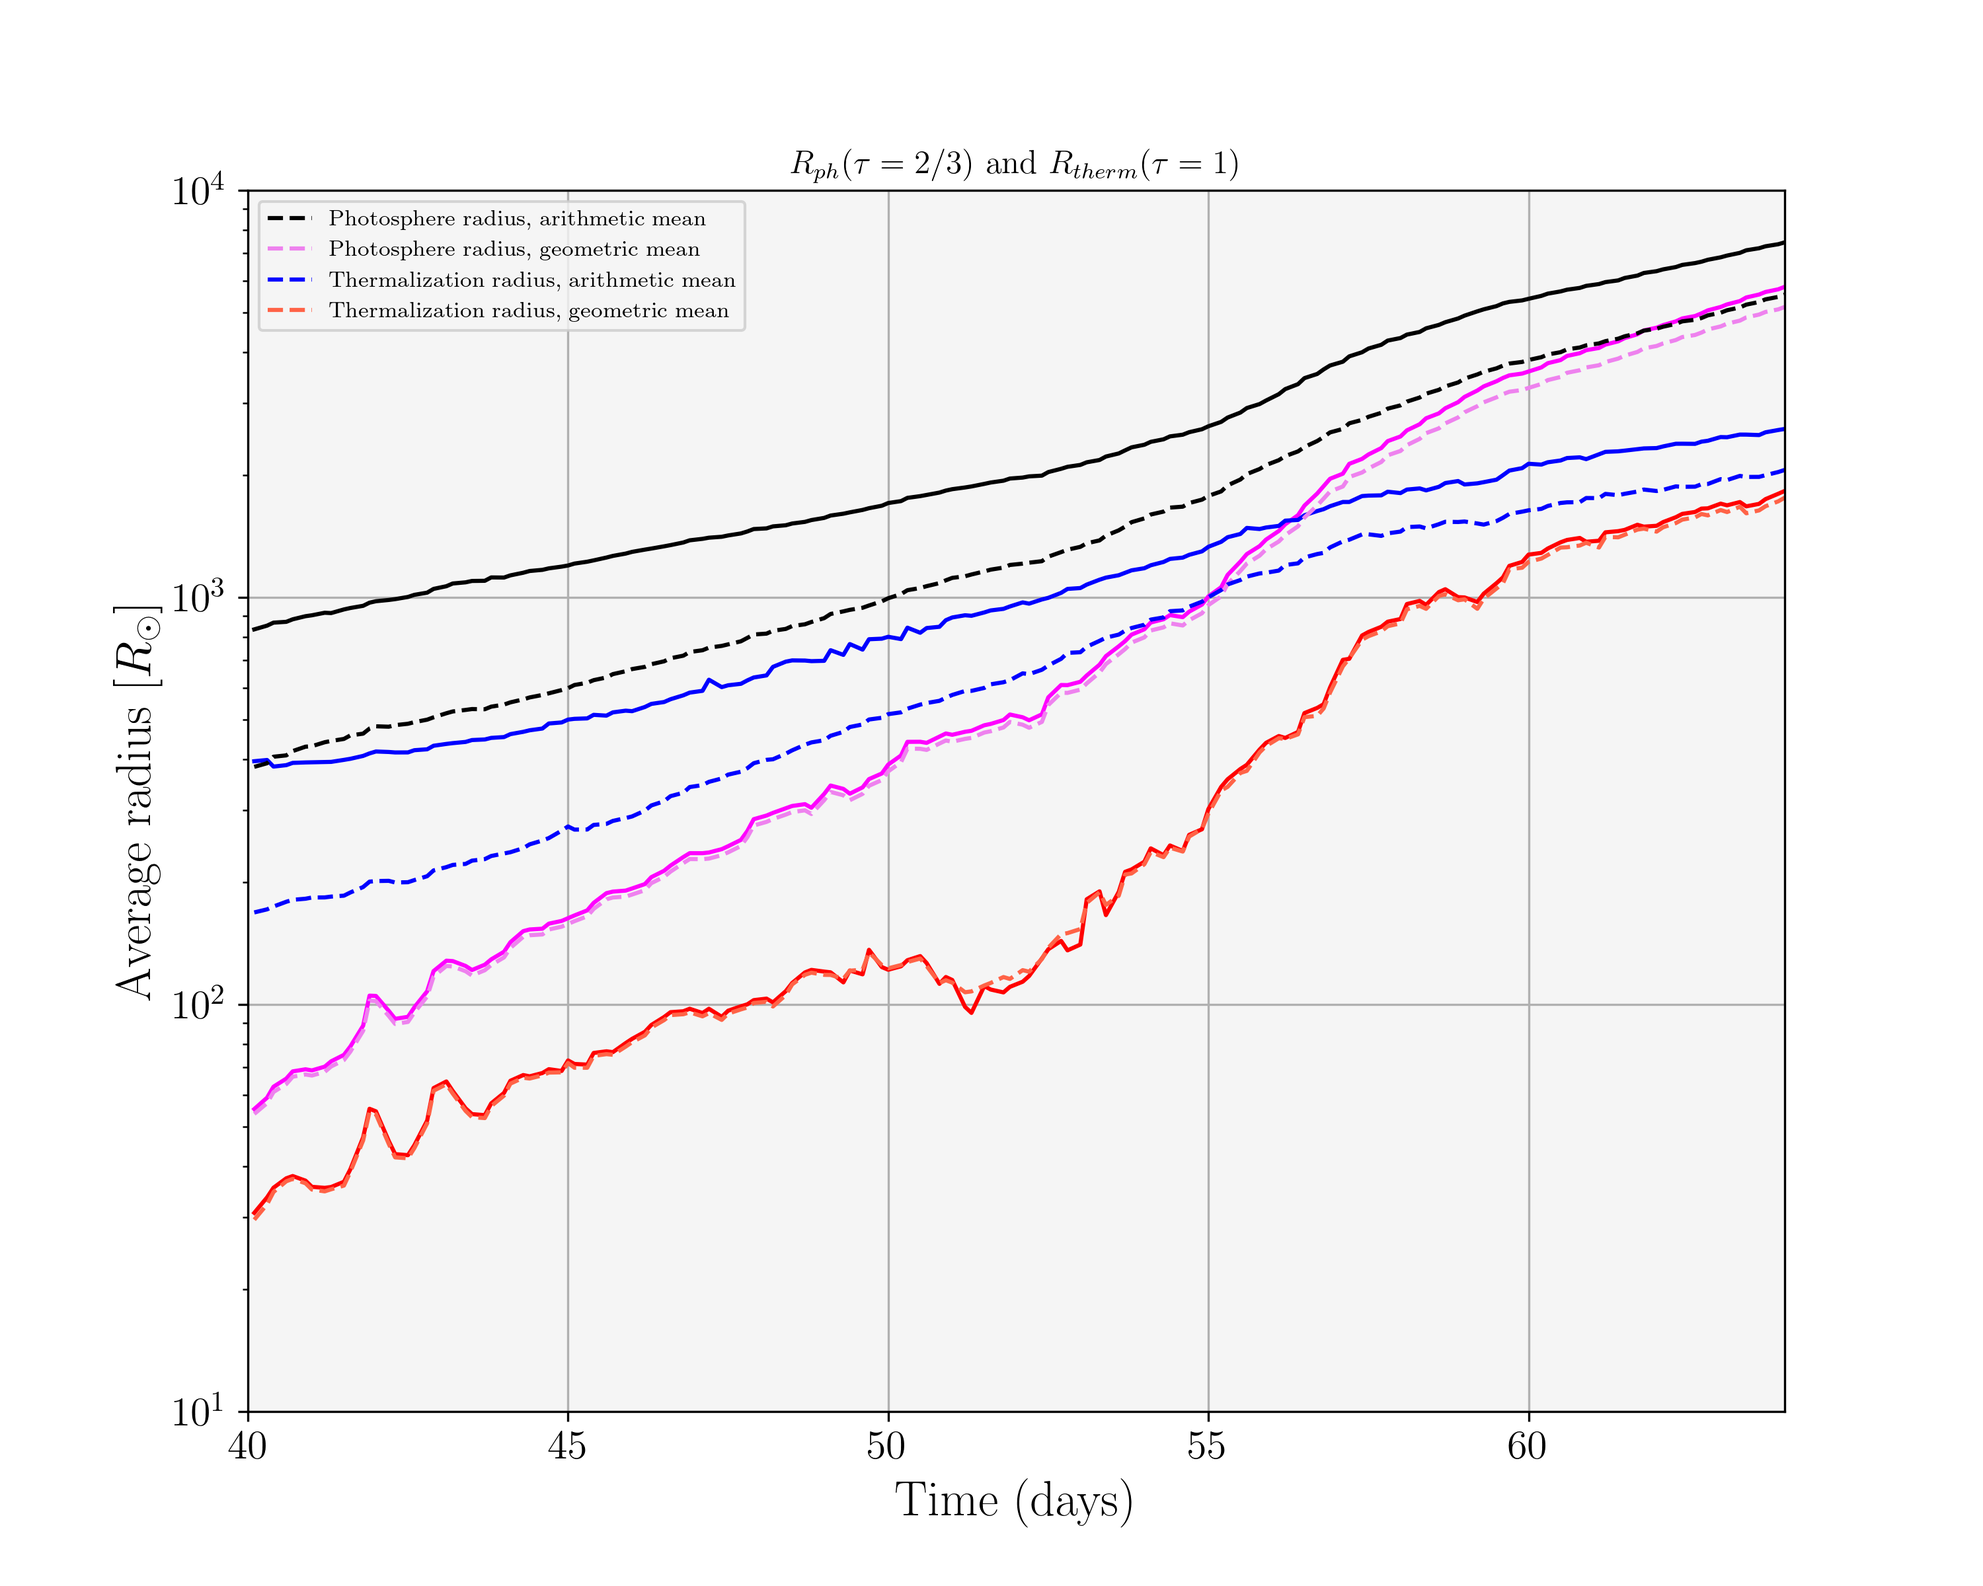
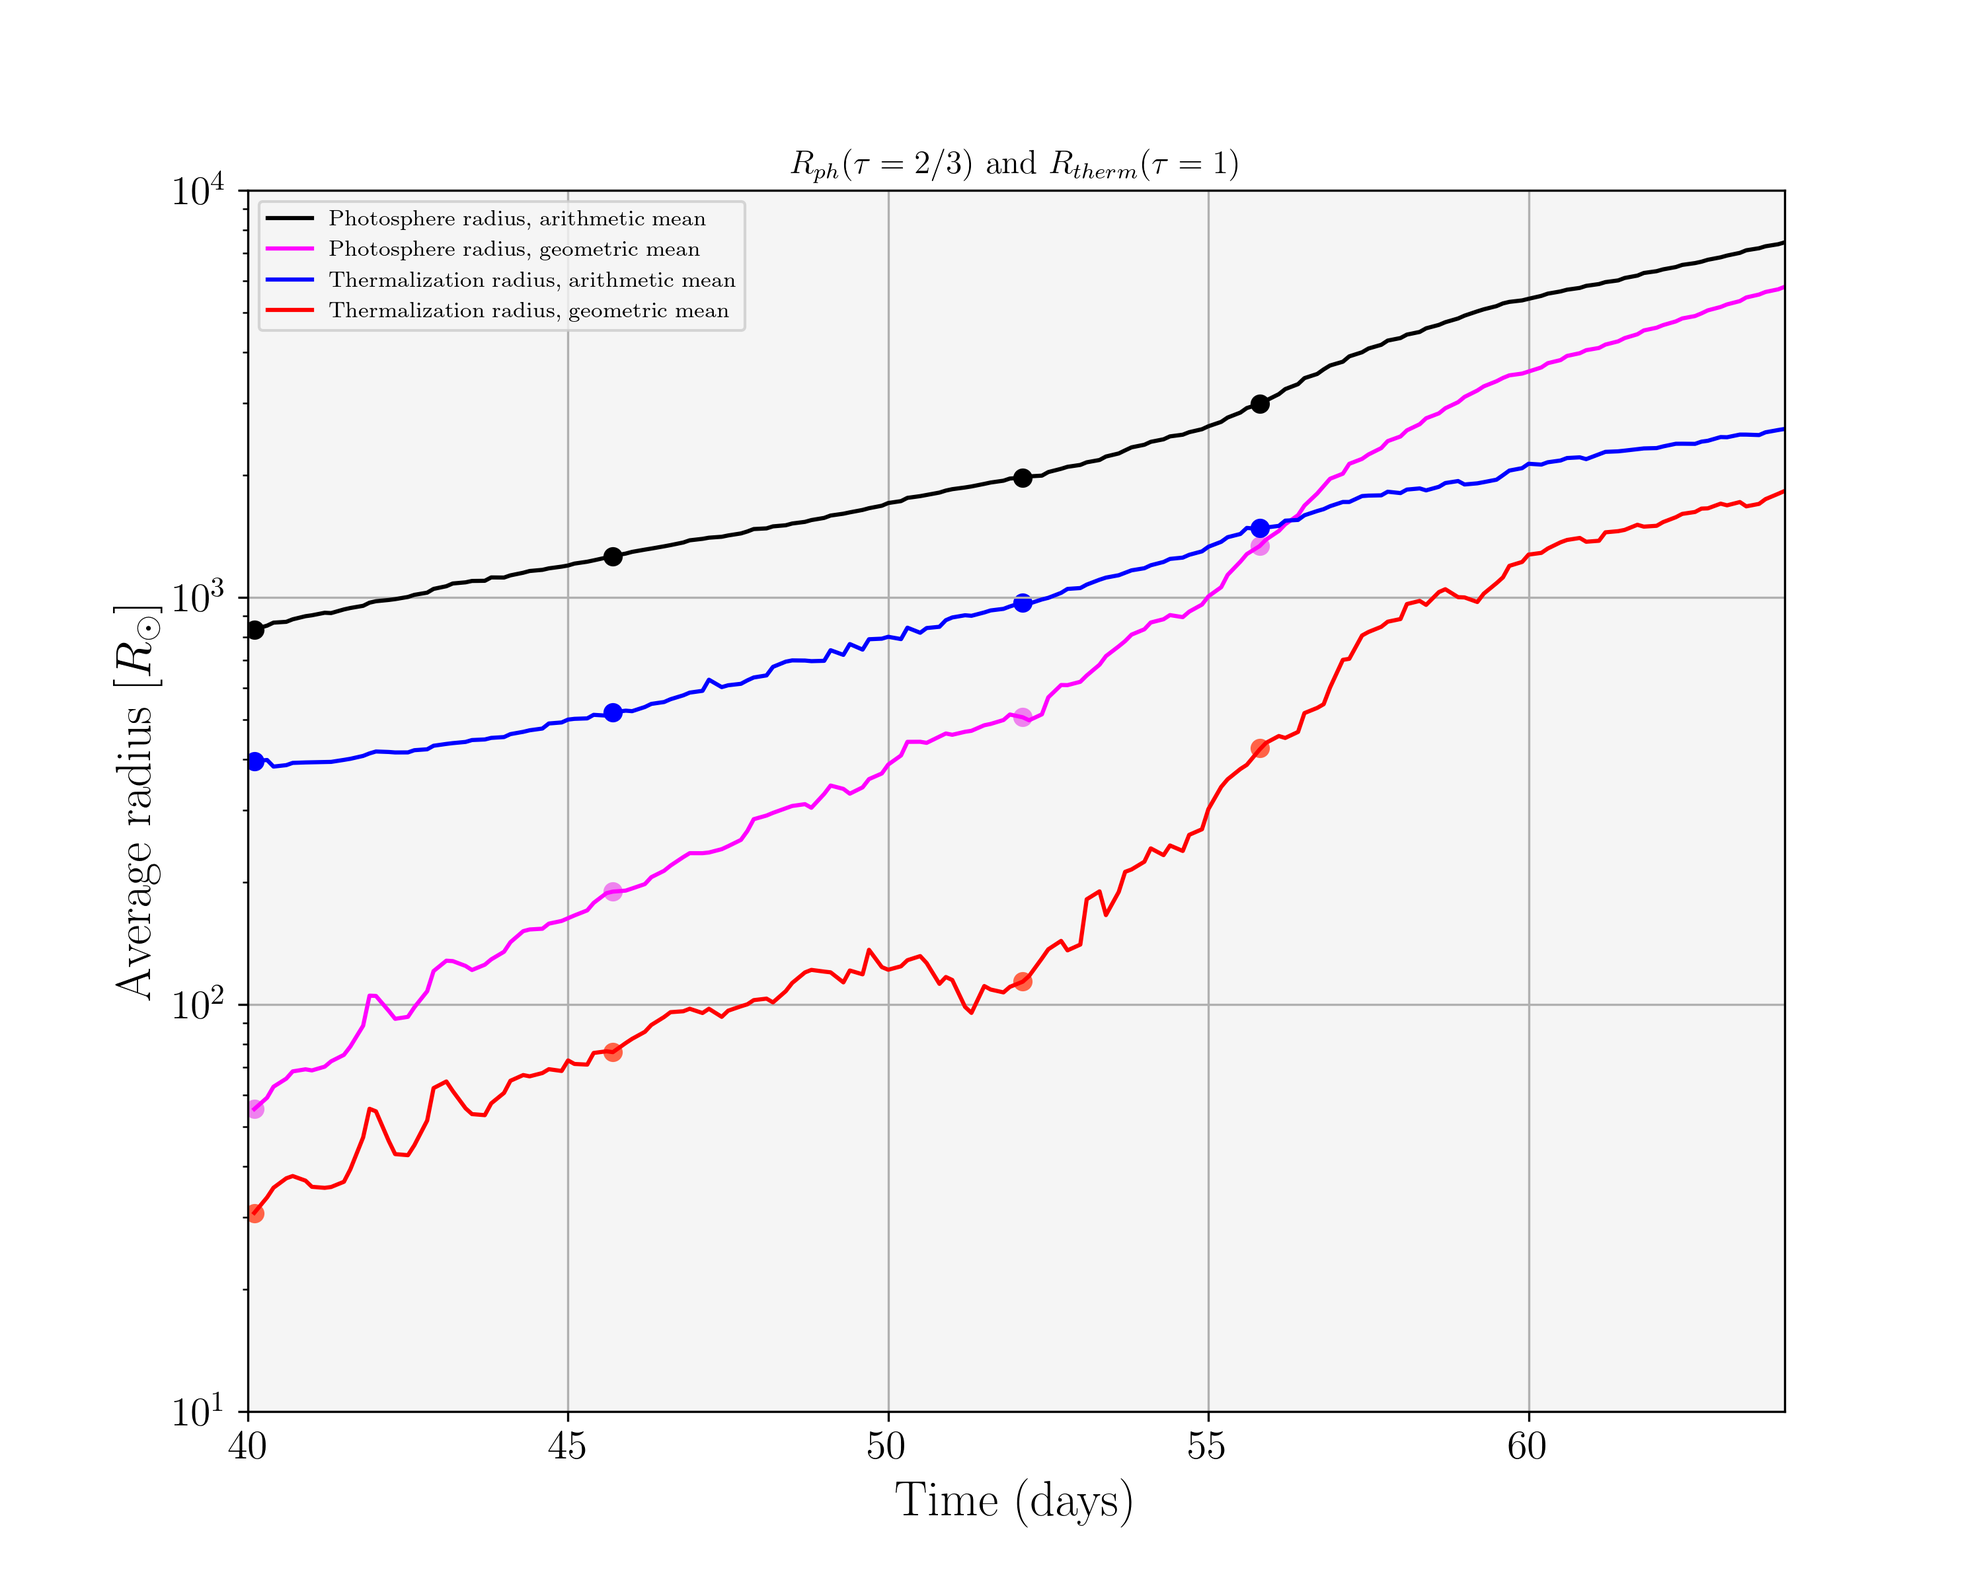
other stuff with box

diff --git a/src/Luminosity/spectra_cloudy_coolingforest.py b/src/Luminosity/spectra_cloudy_coolingforest.py
@@ -125,7 +125,7 @@ def spectrum(branch_T, branch_den, branch_en, branch_ie, branch_cumulative_taus,
             print('here')
 
             def function_forT(x):
-                to_solve = cv_temp * x + alpha * x**4 - total_E # Elad has *rho
+                to_solve = cv_temp * rho * x + alpha * x**4 - total_E # Elad has *rho
                 return to_solve
             
             new_T = fsolve(function_forT, Tr)
@@ -145,16 +145,23 @@ def spectrum(branch_T, branch_den, branch_en, branch_ie, branch_cumulative_taus,
 
     return lum_n
 
-def dot_prod(xyz_selected, thetas, phis):
-    dot_product = np.zeros(len(thetas))
-    for iobs in range(len(thetas)):
-        xyz = find_sph_coord(1,thetas[iobs], phis[iobs])
-        dot_product[iobs] = np.dot(xyz_selected, xyz)
-        # set the negative dot product to 0
-        if dot_product[iobs] < 0:
-            dot_product[iobs] = 0
+# def dot_prod(xyz_selected, thetas, phis):
+#     dot_product = np.zeros(len(thetas))
+#     for iobs in range(len(thetas)):
+#         xyz = find_sph_coord(1,thetas[iobs], phis[iobs])
+#         dot_product[iobs] = np.dot(xyz_selected, xyz)
+#         # set the negative dot product to 0
+#         if dot_product[iobs] < 0:
+#             dot_product[iobs] = 0
 
-    dot_product *= 4/192 # normalisation from Elad
+#     dot_product *= 4/192 # normalisation from Elad
+#     return dot_product
+
+def dot_prod(xyz_grid):
+    dot_product = np.dot(xyz_grid, np.transpose(xyz_grid))
+    dot_product[dot_product < 0] = 0
+    dot_product = dot_product * 4 / 192
+
     return dot_product
 
 
@@ -200,7 +207,7 @@ if __name__ == "__main__":
     fld_data = np.loadtxt('data/red/reddata_m'+ str(m) + check +'.txt')
     luminosity_fld_fix = fld_data[1]
     
-    for idx_sn in range(1,2): #len(snapshots)-1, len(snapshots)): # so you take snap 881 1008: (len(snapshots)-1, len(snapshots))
+    for idx_sn in range(1,2): 
         snap = snapshots[idx_sn]
         bol_fld = luminosity_fld_fix[idx_sn]
         print(f'Snap {snap}')
@@ -219,12 +226,14 @@ if __name__ == "__main__":
         phis = np.zeros(192) 
         observers = []
         stops = np.zeros(192) 
+        xyz_grid = []
         for iobs in range(0,192):
             theta, phi = hp.pix2ang(NSIDE, iobs) # theta in [0,pi], phi in [0,2pi]
             thetas[iobs] = theta
             phis[iobs] = phi
             observers.append( (theta, phi) )
             xyz = find_sph_coord(1, theta, phi)
+            xyz_grid.append(xyz)
 
             mu_x = xyz[0]
             mu_y = xyz[1]
@@ -266,8 +275,8 @@ if __name__ == "__main__":
 
             volume = np.zeros(len(radius)-1)
             for i in range(len(volume)): 
-                dr = radius[i+1] - radius[i]  #2*(radius[2]-radius[1]) / (radius[2] + radius[1])  
-                volume[i] =  4 * np.pi * radius[i]**2 * dr / 192 #4 * np.pi * radius[i]**3 * dr #/ 192  
+                dr = 2*(radius[2]-radius[1]) / (radius[2] + radius[1]) #radius[i+1] - radius[i]  
+                volume[i] =  4 * np.pi * radius[i]**3 * dr #4 * np.pi * radius[i]**2 * dr / 192  
 
             radius = np.delete(radius, -1)
 
@@ -279,7 +288,10 @@ if __name__ == "__main__":
 
             lum_n.append(lum_n_ray)
 
-        print('hi')
+        dot_product = dot_prod(xyz_grid) #dot_prod(xyz_selected, thetas, phis)
+
+        lum_n_selected = np.dot(dot_product, lum_n)
+
         # Select the observer for single spectrum and compute the dot product
         for idx in range(len(wanted_thetas)):
             wanted_theta = wanted_thetas[idx]
@@ -287,16 +299,16 @@ if __name__ == "__main__":
             wanted_index = select_observer(wanted_theta, wanted_phi, thetas, phis)
             # print('index ',wanted_index)
 
-            xyz_selected = find_sph_coord(1, thetas[wanted_index], phis[wanted_index])
-            dot_product = dot_prod(xyz_selected, thetas, phis)
+            # xyz_selected = find_sph_coord(1, thetas[wanted_index], phis[wanted_index])
+            # dot_product = dot_prod(xyz_selected, thetas, phis)
 
-            lum_n_selected = np.zeros(len(x_arr))
-            for j in range(len(lum_n)):
-                if dot_product[j] == 0:
-                    continue
-                for i in range(len(x_arr)):
-                    lum_n_single = lum_n[j][i] * dot_product[j]
-                    lum_n_selected[i] += lum_n_single
+            #lum_n_selected = np.zeros(len(x_arr))
+            # for j in range(len(lum_n)):
+            #     if dot_product[j] == 0:
+            #         continue
+            #     for i in range(len(x_arr)):
+            #         lum_n_single = lum_n[j][i] * dot_product[j]
+            #         lum_n_selected[i] += lum_n_single
 
             # Save data and plot
             if save:
@@ -306,6 +318,6 @@ if __name__ == "__main__":
                     pre_saving = 'data/blue/'
             with open(f'{pre_saving}TESTbox_cooling_nLn_single_m{m}_{snap}.txt', 'a') as fselect:
                 fselect.write(f'#snap {snap} L_tilde_n (theta, phi) = ({np.round(wanted_theta,4)},{np.round(wanted_phi,4)}) with num = {num} \n')
-                fselect.write(' '.join(map(str, lum_n_selected)) + '\n')
+                fselect.write(' '.join(map(str, lum_n_selected[wanted_index])) + '\n')
                 fselect.close()
                

diff --git a/testspectra.py b/testspectra.py
@@ -11,12 +11,18 @@ sys.path.append('/Users/paolamartire/tde_comparison')
 
 from src.Utilities.isalice import isalice
 alice, plot = isalice()
+Rsol_to_cm = 7e10 #6.957e10 # [cm]
 
 # Vanilla imports
 import numpy as np
 import matplotlib.pyplot as plt
 import h5py
 from scipy.stats import gmean
+from src.Luminosity.special_radii_tree_cloudy import calc_specialr
+from src.Luminosity.select_path import select_snap
+from src.Calculators.ray_forest import find_sph_coord, ray_maker
+import h5py
+import healpy as hp
 
 plt.rcParams['text.usetex'] = True
 plt.rcParams['figure.dpi'] = 300
@@ -24,25 +30,29 @@ plt.rcParams['figure.figsize'] = [5 , 4]
 pre = '/home/s3745597/data1/TDE/tde_comparison'
 
 m = 6
-snap = 881
-nL_tilde_n = np.loadtxt(f'data/blue/TESTnorm_nLn_single_m6_881.txt')
+#snap = 882
+check = 'fid'
+num = 1000
+NSIDE = 4
+
+# nL_tilde_n = np.loadtxt(f'data/blue/TESTnorm_nLn_single_m6_881.txt')
 # nL_tilde_n_new = np.zeros(len(nL_tilde_n[1]))
 # for i in range(len(nL_tilde_n[1])):
 #     for iobs in range(len(nL_tilde_n_new)):
 #         nL_tilde_n_new[i] += nL_tilde_n[iobs][i]
 # #nL_tilde_n_new /= 192
-x_array = np.loadtxt(f'data/blue/spectrafreq_m{m}.txt')
-n_array = np.power(10, x_array)
+# x_array = np.loadtxt(f'data/blue/spectrafreq_m{m}.txt')
+# n_array = np.power(10, x_array)
 
-Ltot = 0 
-for i in range(len(nL_tilde_n)):
-    xLx =  n_array * nL_tilde_n[i]
-    L = np.trapz(xLx, x_array) 
-    L *= np.log(10)
-    Ltot += L
-Ltot /= len(nL_tilde_n)
+# Ltot = 0 
+# for i in range(len(nL_tilde_n)):
+#     xLx =  n_array * nL_tilde_n[i]
+#     L = np.trapz(xLx, x_array) 
+#     L *= np.log(10)
+#     Ltot += L
+# Ltot /= len(nL_tilde_n)
 
-print(Ltot)
+# print(Ltot)
 
 # L = np.trapz(n_array * nL_tilde_n_new, x_array) 
 # L *= np.log(10)
@@ -62,4 +72,96 @@ print(Ltot)
 #     file.write(' '.join(map(str, gmean_rtherm)) + '\n')
 #     file.close()
 
+snapshots, days = select_snap(m, check)
+fix_photo_arit = np.zeros(len(snapshots))
+fix_photo_geom = np.zeros(len(snapshots))
+fix_thermr_arit = np.zeros(len(snapshots))
+fix_thermr_geom = np.zeros(len(snapshots))
 
+for index in range(1,2):#len(snapshots)): 
+    snap = snapshots[index]
+    print(snap)       
+    box = np.zeros(6)
+    filename = f"{m}/{snap}/snap_{snap}.h5"
+    
+    with h5py.File(filename, 'r') as fileh:
+        for i in range(len(box)):
+            box[i] = fileh['Box'][i]
+
+    with h5py.File(f'data/elad/data_{snap}.mat', 'r') as f:
+        Elad_photo = f['r_photo'][0]
+        Elad_therm = f['r_therm'][0]
+
+    thetas = np.zeros(192)
+    phis = np.zeros(192) 
+    observers = []
+    stops = np.zeros(192) 
+    for iobs in range(0,192):
+        theta, phi = hp.pix2ang(NSIDE, iobs) # theta in [0,pi], phi in [0,2pi]
+        thetas[iobs] = theta
+        phis[iobs] = phi
+        observers.append( (theta, phi) )
+        xyz = find_sph_coord(1, theta, phi)
+
+        mu_x = xyz[0]
+        mu_y = xyz[1]
+        mu_z = xyz[2]
+
+        # Box is for 
+        if(mu_x < 0):
+            rmax = box[0] / mu_x
+        else:
+            rmax = box[3] / mu_x
+        if(mu_y < 0):
+            rmax = min(rmax, box[1] / mu_y)
+        else:
+            rmax = min(rmax, box[4] / mu_y)
+        if(mu_z < 0):
+            rmax = min(rmax, box[2] / mu_z)
+        else:
+            rmax = min(rmax, box[5] / mu_z)
+
+        stops[iobs] = rmax
+
+    # rays is Er of Elad 
+    tree_indexes, rays_T, rays_den, rays, rays_ie, rays_radii, _, rays_v = ray_maker(snap, m, check, thetas, phis, stops, num)
+    
+    rays_photo = np.zeros(192)
+    rays_thermr = np.zeros(192)
+    for j in range(len(observers)):
+        branch_indexes = tree_indexes[j]
+        branch_T = rays_T[j]
+        branch_den = rays_den[j]
+        radius = rays_radii[j]
+        
+        _, _, photo, _, _ = calc_specialr(branch_T, branch_den, radius, branch_indexes, select = 'photo')
+        _, _, thermr, _, _ = calc_specialr(branch_T, branch_den, radius, branch_indexes, select = 'thermr_plot')
+        rays_photo[j] = photo
+        rays_thermr[j] = thermr
+
+    plt.figure()
+    plt.scatter(range(192), rays_photo/Rsol_to_cm, c = 'r', s = 12, label = 'us')
+    plt.scatter(range(192), Elad_photo, c = 'k', s = 8, label = 'Elad')
+    plt.legend()
+    plt.savefig(f'Figs/photocomp{snap}.png')
+    plt.show()
+
+#     fix_photo_arit[index] = np.mean(rays_photo)/Rsol_to_cm
+#     fix_photo_geom[index] = gmean(rays_photo)/Rsol_to_cm
+#     fix_thermr_arit[index] = np.mean(rays_thermr)/Rsol_to_cm
+#     fix_thermr_geom[index] = gmean(rays_thermr)/Rsol_to_cm
+
+#     pre_saving = 'data/'
+
+# with open(f'{pre_saving}TESTspecial_radii_m{m}_oldopacity.txt', 'a') as file:
+#     file.write('# Run of' + '\n#t/t_fb\n')
+#     file.write(' '.join(map(str, days)) + '\n')
+#     file.write('# Photosphere arithmetic mean \n')
+#     file.write(' '.join(map(str, fix_photo_arit)) + '\n')
+#     file.write('# Photosphere geometric mean \n')
+#     file.write(' '.join(map(str, fix_photo_geom)) + '\n')
+#     file.write('# Thermalisation radius arithmetic mean \n')
+#     file.write(' '.join(map(str, fix_thermr_arit)) + '\n')
+#     file.write('# Thermalisation radius geometric mean \n')
+#     file.write(' '.join(map(str, fix_thermr_geom)) + '\n')
+#     file.close()

diff --git a/src/Plotting/Light-Curves/comparison_with_elad.py b/src/Plotting/Light-Curves/comparison_with_elad.py
@@ -95,7 +95,8 @@ if plot_radii_sphere:
     # Our load 
     # test = np.loadtxt('data/oldopacity_special_radii_m'+ str(m) + '_num1000.txt') #from ALICE
     # daystest = test[0] * 40
-    spec_radii = np.loadtxt('data/special_radii_m'+ str(m) + '_oldopacity.txt') #from ALICE
+    spec_radii = np.loadtxt('data/TESTspecial_radii_m'+ str(m) + '_oldopacity.txt') #from ALICE
+    daysEl = np.loadtxt('data/special_radii_m'+ str(m) + '_oldopacity.txt')[0] #from ALICE
     days = spec_radii[0]
     days *= 40
     photo_arit = spec_radii[1]
@@ -104,16 +105,16 @@ if plot_radii_sphere:
     thermr_geom = spec_radii[4]
 
     #Elad plot
-    plt.plot(days, elad_photo_arit, c = 'k')
-    plt.plot(days, elad_photo_geom, c = 'magenta')
-    plt.plot(days, elad_therm_arit, c = 'b')
-    plt.plot(days, elad_therm_geom, c = 'r')
+    plt.plot(daysEl*40, elad_photo_arit, c = 'k', label = 'Photosphere radius, arithmetic mean')
+    plt.plot(daysEl*40, elad_photo_geom, c = 'magenta', label = 'Photosphere radius, geometric mean')
+    plt.plot(daysEl*40, elad_therm_arit, c = 'b', label = 'Thermalization radius, arithmetic mean')
+    plt.plot(daysEl*40, elad_therm_geom, c = 'r', label = 'Thermalization radius, geometric mean')
 
     # Our plot
-    plt.plot(days, photo_arit, '--', color = 'black', label = 'Photosphere radius, arithmetic mean')
-    plt.plot(days, photo_geom, '--', color = 'violet', label = 'Photosphere radius, geometric mean')
-    plt.plot(days, thermr_arit, '--', color = 'b', label = 'Thermalization radius, arithmetic mean')
-    plt.plot(days, thermr_geom, '--', color = 'tomato', label = 'Thermalization radius, geometric mean')
+    plt.scatter(days, photo_arit, color = 'black')#, label = 'Photosphere radius, arithmetic mean')
+    plt.scatter(days, photo_geom, color = 'violet')#, label = 'Photosphere radius, geometric mean')
+    plt.scatter(days, thermr_arit, color = 'b')#, label = 'Thermalization radius, arithmetic mean')
+    plt.scatter(days, thermr_geom, color = 'tomato')#, label = 'Thermalization radius, geometric mean')
     plt.xlim(40,64)
     plt.ylim(10,1e4)
     plt.yscale('log')

diff --git a/src/Calculators/ray_forest.py b/src/Calculators/ray_forest.py
@@ -35,9 +35,9 @@ def isalice():
     return alice
 
 def find_sph_coord(r, theta,phi):
-    x = r * np.sin(np.pi-theta) * np.cos(phi) #because theta should start from the z axis: we're flipped
-    y = r * np.sin(np.pi-theta) * np.sin(phi)
-    z = r * np.cos(np.pi-theta)
+    x = r * np.sin(theta) * np.cos(phi) #because theta should start from the z axis: we're flipped
+    y = r * np.sin(theta) * np.sin(phi)
+    z = r * np.cos(theta)
     return [x,y,z]
 
 def ray_maker(fix, m, check, thetas, phis, stops, num): 
@@ -111,7 +111,7 @@ def ray_maker(fix, m, check, thetas, phis, stops, num):
         for k in range(len(radii)-1):
             radius = radii[k]
             queried_value = find_sph_coord(radius, thetas[j], phis[j])
-            queried_value[0] -= Rt
+            queried_value[0] += Rt
             _, idx = sim_tree.query(queried_value)
 
             # Store
@@ -121,7 +121,7 @@ def ray_maker(fix, m, check, thetas, phis, stops, num):
             rays[j][k] = Rad[idx] 
             rays_ie[j][k] = IE[idx] 
             rays_vol[j][k] = Vol[idx] # not in CGS
-            vel = np.sqrt(VX[idx]**2 + VY[idx]**2 + VZ[idx]**2)
+            vel = VX[idx]**2 + VY[idx]**2 + VZ[idx]**2 #np.sqrt(VX[idx]**2 + VY[idx]**2 + VZ[idx]**2)
             vel *= Rsol_to_cm / t #convert in CGS
             rays_v[j][k] = vel
 

diff --git a/src/Luminosity/special_radii_tree_cloudy.py b/src/Luminosity/special_radii_tree_cloudy.py
@@ -62,14 +62,15 @@ def get_kappa(T: float, rho: float, r_dlogr: float, select: str):
     kappa: float.
             The optical depth of a cell.
     '''    
-    Tmax = np.power(10,8) #np.exp(17.87) #TEST OLD OPACITY
+    Tmax = 1e13 # #np.exp(17.87) #TEST OLD OPACITY
+    Tmin = 316 #np.power(10)
     # If there is nothing, the ray continues unimpeded
     if rho < np.exp(-49.3):
         #print('rho low')        
         return 0
     
     # Stream material, is opaque
-    elif T < np.exp(8.666):
+    elif T < Tmin:
         print('T low')
         return 100
     

diff --git a/src/Luminosity/select_path.py b/src/Luminosity/select_path.py
@@ -38,7 +38,7 @@ def select_snap(m, check):
         if m == 4 and check == 'fid':
             snapshots = [233] #, 254, 263, 277 , 293, 308, 322]
         if m == 6 and check == 'fid':
-            snapshots = [844, 882, 925, 950, 1008] 
+            snapshots = [844, 882, 925, 950]#, 1008] 
     for snap in snapshots:
         snap = str(snap) 
         day = np.round(days_since_distruption( pre +

diff --git a/src/Plotting/Light-Curves/spectraplot.py b/src/Plotting/Light-Curves/spectraplot.py
@@ -75,7 +75,7 @@ ax2.loglog()
 ax2.set_xlabel(r'$log_{10}\lambda [\AA]$', fontsize = 16)
 ax1.legend()
 #ax1.set_title('Spectra')
-#plt.savefig(f'Figs/TESTPERIcooling_spectra{snap}')
+#plt.savefig(f'Figs/BOX_cooling_spectra{snap}')
 plt.show()
 
 
